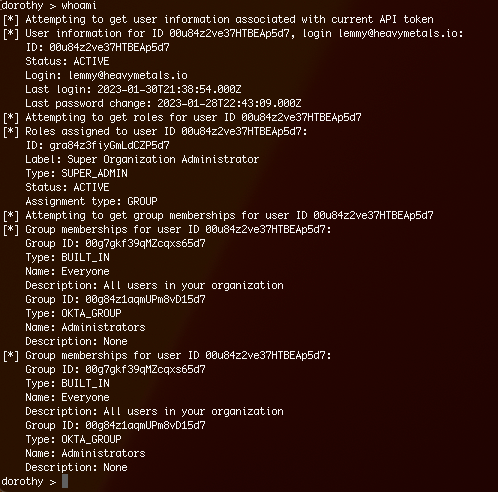
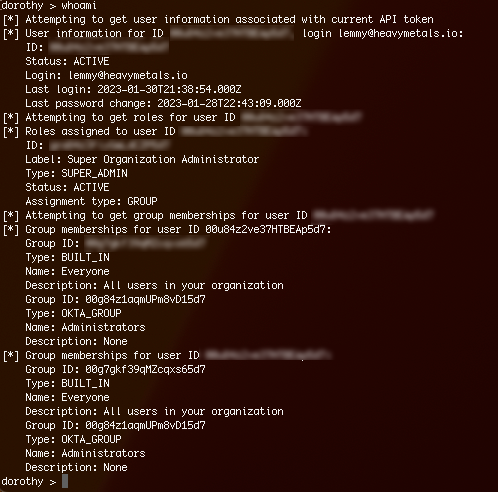
dorothy

diff --git a/README.md b/README.md
@@ -218,6 +218,8 @@ def severity(event):
 ## Lab 4: Purple Teaming Detections
 
 **Lab 4:  Exercise 1 - Installing Dorothy (Optional)**
+Dorothy is a tool to help security teams test their monitoring and detection capabilities for their Okta environment [created by David French](https://github.com/elastic/dorothy) [@threatpunter](https://twitter.com/threatpunter) at Elastic Security. 
+<br>
 Note: Dorothy does not use exploits or conduct any brute force, the tool requires an Okta access token.
 DO NOT TEST THIS TOOL ON A PRODUCTION OKTA INSTANCE, PLEASE USE [YOUR OKTA DEVELOPER ACCOUNT](https://developer.okta.com/)   
 
@@ -228,11 +230,18 @@ Requirements: Python 3.7+, pip3
 * Option 2: You can install [Dorothy from source code](https://github.com/elastic/dorothy) 
 
 2. We will simulate the process of an attacker creating a new access token, go to your Okta developer instance and create a new access token, copy and paste it somewhere safe
+
 ![Okta Token Page](/img/dorothy_okta_key.png)
 
 3. Now we will run Dorothy and configure a new profile, you will enter a description, the URL of your Okta dev instance, the access token you just created, you can store the token locally, do not store the logs in Elasticsearch.
+
 ![Okta Token Page](/img/dorothy1.png)
 
-4. Once configured enter the command ```whoami``` to view 
+4. Once configured enter the command ```whoami``` to view the user and permissions tied to the access token, you should see that we have Super Administrator access. 
 
+![Okta Token Page](/img/dorothy3.png)
+
+5. We can list the available modules by entering the ```list-modules``` command 
+
+![Okta Token Page](/img/dorothy2.png)
 
